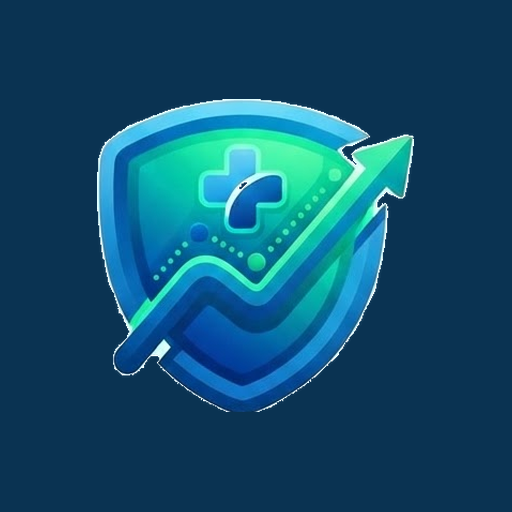
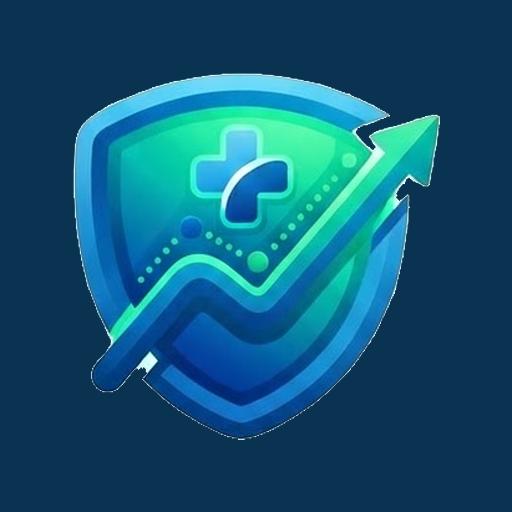
ajustes lentidao

Changed region(s): [[0.125, 0.125, 0.875, 0.875]]

diff --git a/notas/evolucao.md b/notas/evolucao.md
@@ -29,6 +29,7 @@ O app lê laudos em PDF (Unilab e IPC), guarda no Supabase e mostra Painel, Evol
 - “Inferior ou igual a”, “menor ou igual a” e “≤” são limite máximo. O leitor não entendia “Inferior ou igual a” e caía na faixa errada.
 - Sexo e idade do PDF têm prioridade sobre o perfil. Faixa fixa “Homens” não vale para mulher: sem banda no PDF, o status fica sem avaliação.
 - Não esperar a rede dentro de `main` antes de `runApp`. A Syncfusion só carrega na importação do PDF (`deferred`). As abas Evolução, Histórico e Perfil não montam junto com o Painel.
+- O ícone da abertura é o escudo em `ic_launcher_foreground`, fundo `#0A3352`. Recortar em cima do branco e só reduzir deixa uma borda clara. A borda transparente tem que ficar na cor do escudo.
 
 ## O que está valendo
 
@@ -152,3 +153,12 @@ Deu certo:
 Deu errado / limite:
 
 - O APK de release não compilou: o CMake quebra no caminho com acento (`Área de trabalho`). O que está no celular continua sendo debug, com a máquina virtual do Dart, e a memória fica perto de 400 MB. O `flutter run` segue mais pesado que um release.
+
+### 2026-10-12 — Borda do ícone na abertura
+
+Pedido: no instante em que aparece só o escudo (`ic_launcher_foreground`), a borda estava ruim.
+
+Deu certo:
+
+- A arte saiu de `logo.png`, sem o texto. O fundo claro foi tirado e a borda transparente ficou na cor do desenho, não num fio branco.
+- Regenerados os cinco tamanhos do foreground e o `ic_launcher` legado, mais `assets/brand/app_icon.png`. O fundo do adaptive icon continua `#0A3352`.
